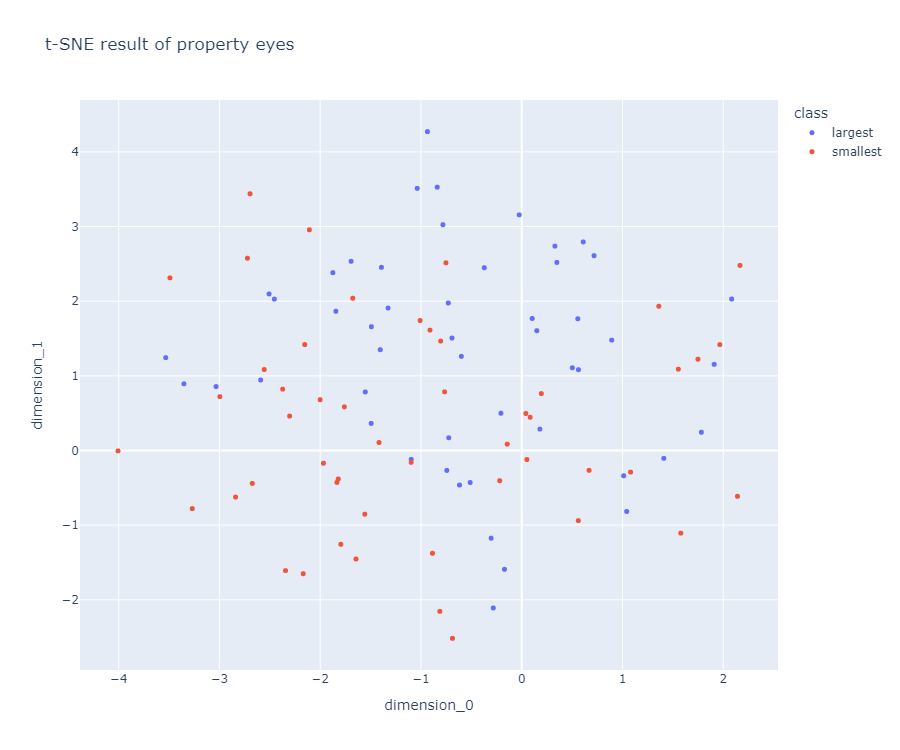
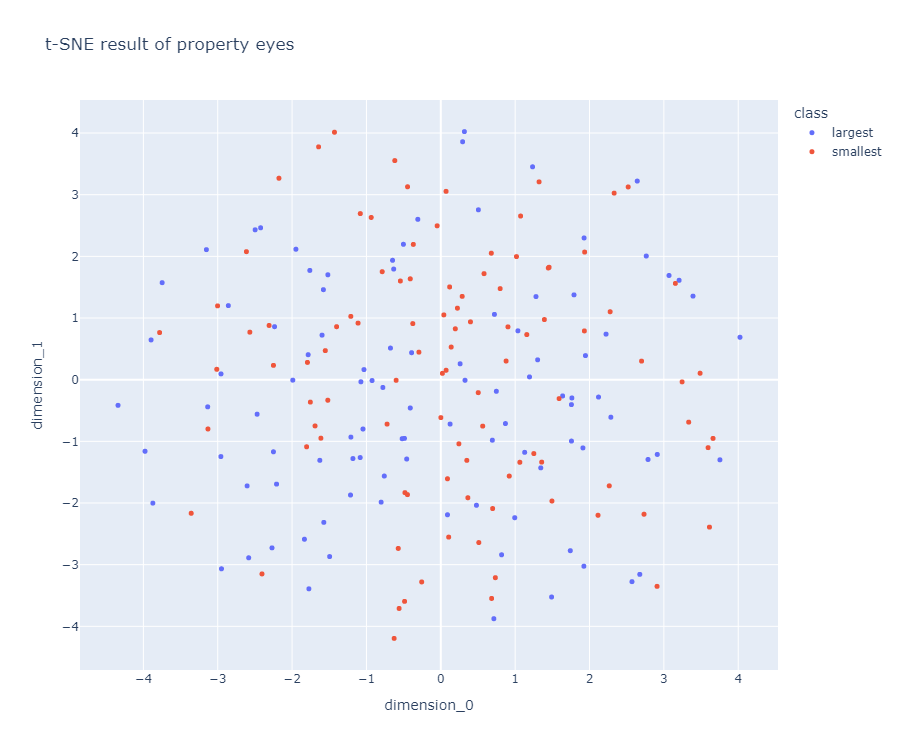
ADD: test result with 12K samples & top/bottom 100

diff --git a/2025_05_02_OhLoRA_v2/stylegan/stylegan_vectorfind_v6/run_vector_find.py b/2025_05_02_OhLoRA_v2/stylegan/stylegan_vectorfind_v6/run_vector_find.py
@@ -35,7 +35,7 @@ BATCH_SIZE = 20
 #                                    'mouth_cnn_score': list(float),
 #                                    'pose_cnn_score': list(float)}
 
-def sample_z_and_compute_property_scores(finetune_v1_generator, property_score_cnn, n=5000):
+def sample_z_and_compute_property_scores(finetune_v1_generator, property_score_cnn, n=12000):
     save_dir = f'{PROJECT_DIR_PATH}/stylegan/stylegan_vectorfind_v6/inference_test_during_training'
 
     z = np.random.normal(0, 1, size=(n, ORIGINAL_HIDDEN_DIMS_Z)).astype(np.float64)
@@ -101,7 +101,7 @@ def sample_z_and_compute_property_scores(finetune_v1_generator, property_score_c
 #                          'mouth_largest': list(int), 'mouth_smallest': list(int),
 #                          'pose_largest': list(int), 'pose_smallest': list(int)}
 
-def extract_best_and_worst_k_images(property_scores, k=50):
+def extract_best_and_worst_k_images(property_scores, k=100):
 
     # sort scores with index
     eyes_cnn_scores_with_idx = []

diff --git a/2025_05_02_OhLoRA_v2/stylegan/stylegan_vectorfind_v6/svm_train_report/svm_train_report.md b/2025_05_02_OhLoRA_v2/stylegan/stylegan_vectorfind_v6/svm_train_report/svm_train_report.md
@@ -1,0 +1,33 @@
+## 2025.05.06 17:45
+
+* total synthesized samples = **12,000**
+* use each property score top **100 (= 0.83%)** & bottom **100 (= 0.83%)** for SVM training
+
+```
+training SVM for eyes ...
+accuracy          : 0.8000
+recall    (large) : 0.7500
+precision (large) : 0.8333
+F1 score  (large) : 0.7895
+recall    (small) : 0.8500
+precision (small) : 0.7727
+F1 score  (small) : 0.8095
+
+training SVM for mouth ...
+accuracy          : 0.6750
+recall    (large) : 0.7500
+precision (large) : 0.6522
+F1 score  (large) : 0.6977
+recall    (small) : 0.6000
+precision (small) : 0.7059
+F1 score  (small) : 0.6486
+
+training SVM for pose ...
+accuracy          : 0.8750
+recall    (large) : 0.9000
+precision (large) : 0.8571
+F1 score  (large) : 0.8780
+recall    (small) : 0.8500
+precision (small) : 0.8947
+F1 score  (small) : 0.8718
+```
